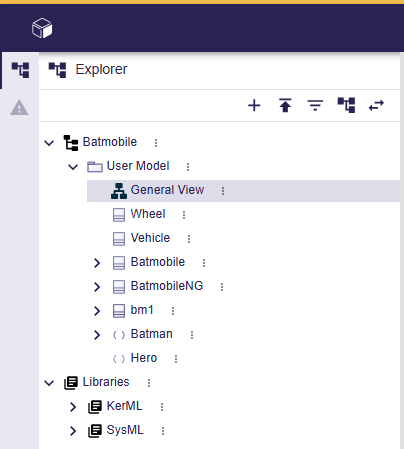
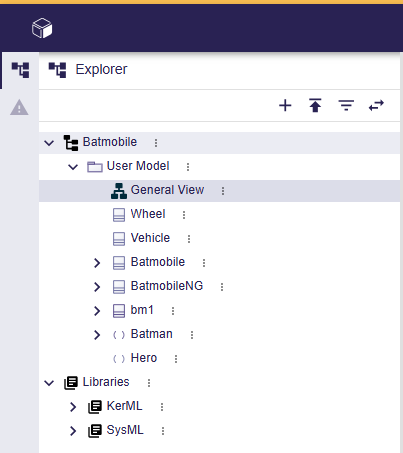
[919] Remove Sirius Web default explorer
Bug: https://github.com/eclipse-syson/syson/issues/919

diff --git a/backend/views/syson-tree-explorer-view/src/main/java/org/eclipse/syson/tree/explorer/view/SysONExplorerTreeDescriptionOrderer.java b/backend/views/syson-tree-explorer-view/src/main/java/org/eclipse/syson/tree/explorer/view/SysONExplorerTreeDescriptionOrderer.java
@@ -1,0 +1,38 @@
+/*******************************************************************************
+ * Copyright (c) 2024 Obeo.
+ * This program and the accompanying materials
+ * are made available under the terms of the Eclipse Public License v2.0
+ * which accompanies this distribution, and is available at
+ * https://www.eclipse.org/legal/epl-2.0/
+ *
+ * SPDX-License-Identifier: EPL-2.0
+ *
+ * Contributors:
+ *     Obeo - initial API and implementation
+ *******************************************************************************/
+package org.eclipse.syson.tree.explorer.view;
+
+import java.util.List;
+
+import org.eclipse.sirius.web.application.views.explorer.dto.ExplorerDescriptionMetadata;
+import org.eclipse.sirius.web.application.views.explorer.services.ExplorerDescriptionProvider;
+import org.eclipse.sirius.web.application.views.explorer.services.api.IExplorerTreeDescriptionOrderer;
+import org.springframework.stereotype.Service;
+
+/**
+ * Sorts the tree descriptions that can be used as explorer in SysON.
+ * 
+ * @author gdaniel
+ */
+@Service
+public class SysONExplorerTreeDescriptionOrderer implements IExplorerTreeDescriptionOrderer {
+
+    @Override
+    public void order(List<ExplorerDescriptionMetadata> explorerDescriptionMetadataList) {
+        if (explorerDescriptionMetadataList.stream().map(ExplorerDescriptionMetadata::label).anyMatch(label -> SysONExplorerTreeDescriptionProvider.SYSON_EXPLORER.equals(label))) {
+            // Remove the default Sirius Web explorer if the SysON Explorer is available.
+            explorerDescriptionMetadataList.removeIf(metadata -> ExplorerDescriptionProvider.DESCRIPTION_ID.equals(metadata.id()));
+        }
+    }
+
+}

diff --git a/backend/application/syson-application/src/test/java/org/eclipse/syson/application/controller/explorer/view/SysONExplorerTests.java b/backend/application/syson-application/src/test/java/org/eclipse/syson/application/controller/explorer/view/SysONExplorerTests.java
@@ -33,7 +33,6 @@ import org.eclipse.sirius.components.core.api.labels.StyledStringFragment;
 import org.eclipse.sirius.components.trees.Tree;
 import org.eclipse.sirius.components.trees.TreeItem;
 import org.eclipse.sirius.web.application.views.explorer.ExplorerEventInput;
-import org.eclipse.sirius.web.application.views.explorer.services.ExplorerDescriptionProvider;
 import org.eclipse.sirius.web.tests.graphql.ExplorerDescriptionsQueryRunner;
 import org.eclipse.sirius.web.tests.services.api.IGivenInitialServerState;
 import org.eclipse.sirius.web.tests.services.explorer.ExplorerEventSubscriptionRunner;
@@ -108,9 +107,8 @@ public class SysONExplorerTests extends AbstractIntegrationTests {
                 "editingContextId", SysMLv2Identifiers.GENERAL_VIEW_EMPTY_PROJECT);
         var explorerResult = this.explorerDescriptionsQueryRunner.run(explorerVariables);
         List<String> explorerIds = JsonPath.read(explorerResult, "$.data.viewer.editingContext.explorerDescriptions[*].id");
-        assertThat(explorerIds).hasSize(2);
+        assertThat(explorerIds).hasSize(1);
         assertThat(explorerIds).contains(this.treeDescriptionId);
-        assertThat(explorerIds).contains(ExplorerDescriptionProvider.DESCRIPTION_ID);
     }
 
     @DisplayName("Given an empty SysML Project, when the explorer is displayed, then the libraries are visible and the root namespace and memberships are not visible")
